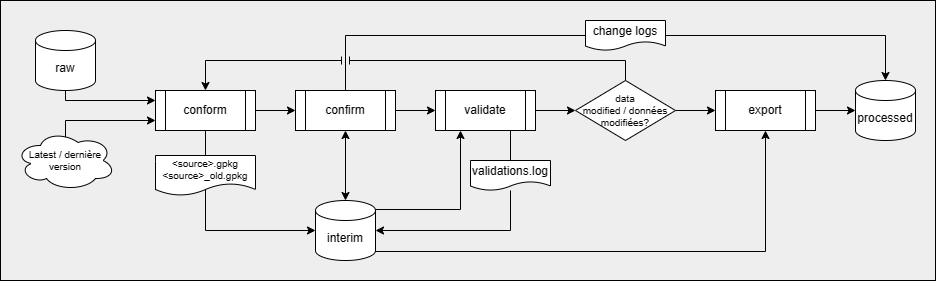
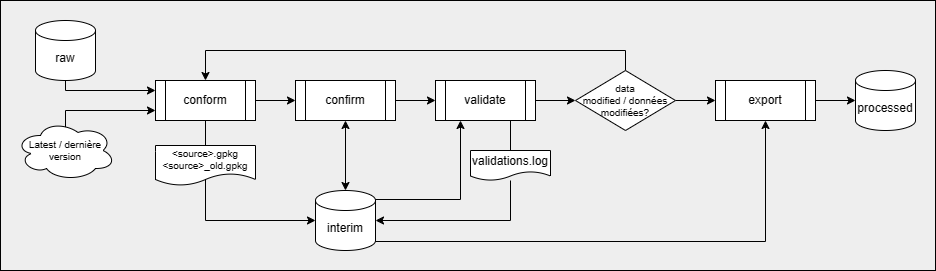
[1] removed change logs and all doc references too

diff --git a/src/confirm/confirm.py b/src/confirm/confirm.py
@@ -25,47 +25,26 @@ handler.setLevel(logging.INFO)
 handler.setFormatter(logging.Formatter("%(asctime)s - %(levelname)s: %(message)s", "%Y-%m-%d %H:%M:%S"))
 logger.addHandler(handler)
 
-# Create logger for change logs.
-logger_change_logs = logging.getLogger("change_logs")
-logger_change_logs.setLevel(logging.INFO)
-
 
 class Confirm:
     """Defines an NRN process."""
 
-    def __init__(self, source: str, remove: bool = False) -> None:
+    def __init__(self, source: str) -> None:
         """
         Initializes an NRN process.
 
         :param str source: abbreviation for the source province / territory.
-        :param bool remove: removes pre-existing change logs within the data/processed directory for the specified
-            source, default False.
         """
 
         self.source = source.lower()
-        self.remove = remove
 
         # Configure data paths.
         self.src = filepath.parents[2] / f"data/interim/{self.source}.gpkg"
-        self.dst = filepath.parents[2] / f"data/processed/{self.source}/{self.source}_change_logs"
 
         # Validate source path.
         if not self.src.exists():
             logger.exception(f"Source not found: \"{self.src}\".")
             sys.exit(1)
-
-        # Validate and conditionally clear output namespace.
-        if self.dst.exists():
-            logger.warning("Output namespace already occupied.")
-
-            if self.remove:
-                logger.warning("Parameter remove=True: Removing directory.")
-                helpers.rm_tree(self.dst)
-
-            else:
-                logger.exception("Parameter remove=False: Unable to proceed while output namespace is occupied. Set "
-                                 "remove=True (-r) or manually clear the output namespace.")
-                sys.exit(1)
 
         # Define match fields (fields used for grouping records in current dataset / linking to old dataset)
         # Note: roadseg requires a match field, the remaining entries are optional.
@@ -85,11 +64,6 @@ class Confirm:
         self.dframes_old = helpers.load_gpkg(self.src.parent / f"{self.source}_old.gpkg", find=True,
                                              layers=["blkpassage", "ferryseg", "junction", "roadseg", "tollpoint"])
 
-        # Define change logs dictionary.
-        self.change_logs = {
-            table: {change: set() for change in ("added", "retired", "modified", "confirmed")} for table in self.dframes
-        }
-
         # NID change lookup for roadseg.
         self.roadseg_nid_changes = dict(zip(self.dframes["roadseg"]["nid"], self.dframes["roadseg"]["nid"]))
 
@@ -99,36 +73,7 @@ class Confirm:
         self.gen_nids()
         self.gen_structids()
         self.update_nid_linkages()
-        self.export_nid_change_logs()
         helpers.export(self.dframes, self.src)
-
-    def export_nid_change_logs(self) -> None:
-        """Exports nid change classifications as log files."""
-
-        logger.info(f"Writing nid change logs to: \"{self.dst}\".")
-
-        # Create change logs directory.
-        Path(self.dst).mkdir(parents=True, exist_ok=True)
-
-        # Iterate tables and nid classification types.
-        for table in self.change_logs:
-            for classification, log in self.change_logs[table].items():
-
-                # Configure log path.
-                log_path = self.dst / f"{self.source}_{table}_{classification}.log"
-
-                # Drop pre-existing File Handler.
-                for f_handler in logger_change_logs.handlers:
-                    logger_change_logs.removeHandler(f_handler)
-
-                # Add File Handler with new log path.
-                f_handler = logging.FileHandler(log_path)
-                f_handler.setLevel(logging.INFO)
-                f_handler.setFormatter(logger.handlers[0].formatter)
-                logger_change_logs.addHandler(f_handler)
-
-                # Write log.
-                logger_change_logs.info(log)
 
     def gen_nids(self) -> None:
         """
@@ -210,22 +155,10 @@ class Confirm:
 
             # Recover nids from wkb-nid lookup.
             df["nid"] = df_wkb.map(wkb_nid_lookup).fillna(default)
-            self.change_logs[table]["confirmed"] = set(df.loc[df["nid"] != default, "nid"])
-
-            # Identify modified records based on match field.
-            if match_field:
-                flag_modified = (df["nid"] != default) & (df[match_field] != df["nid"].map(nid_match_lookup))
-
-                self.change_logs[table]["modified"] = set(df.loc[flag_modified, "nid"])
-                self.change_logs[table]["confirmed"] = \
-                    self.change_logs[table]["confirmed"] - set(df.loc[flag_modified, "nid"])
 
             # Assign a new nid to all required records.
             flag_added = (df["nid"] == default)
             df.loc[flag_added, "nid"] = [uuid.uuid4().hex for _ in range(sum(flag_added))]
-
-            self.change_logs[table]["added"] = set(df.loc[flag_added, "nid"])
-            self.change_logs[table]["retired"] = set(df_old["nid"]) - set(df["nid"])
 
             # Link dissolved geometries to original geometries, if required.
             if table == "roadseg":
@@ -473,22 +406,18 @@ class Confirm:
 
 @click.command()
 @click.argument("source", type=click.Choice("ab bc mb nb nl ns nt nu on pe qc sk yt".split(), False))
-@click.option("--remove / --no-remove", "-r", default=False, show_default=True,
-              help="Remove pre-existing change logs within the data/processed directory for the specified source.")
-def main(source: str, remove: bool = False) -> None:
+def main(source: str) -> None:
     """
     Executes an NRN process.
 
     \b
     :param str source: abbreviation for the source province / territory.
-    :param bool remove: removes pre-existing change logs within the data/processed directory for the specified source,
-        default False.
     """
 
     try:
 
         with helpers.Timer():
-            process = Confirm(source, remove)
+            process = Confirm(source)
             process()
 
     except KeyboardInterrupt:

diff --git a/src/export/export.py b/src/export/export.py
@@ -35,7 +35,7 @@ class Export:
 
         :param str source: abbreviation for the source province / territory.
         :param bool remove: removes pre-existing files within the data/processed directory for the specified source,
-            excluding change logs, default False.
+            default False.
         """
 
         self.source = source.lower()
@@ -53,7 +53,7 @@ class Export:
             sys.exit(1)
 
         # Validate and conditionally clear output namespace.
-        namespace = list(filter(lambda f: f.stem != f"{self.source}_change_logs", self.dst.glob("*")))
+        namespace = list(self.dst.glob("*"))
 
         if len(namespace):
             logger.warning("Output namespace already occupied.")
@@ -397,12 +397,12 @@ class Export:
 
         # Configure zip progress bar.
         file_count = 0
-        for data_dir in filter(lambda f: f.name != f"{self.source}_change_logs.zip", root.glob("*")):
+        for data_dir in root.glob("*"):
             file_count += len(list(filter(Path.is_file, data_dir.rglob("*"))))
         zip_progress = trange(file_count, desc="Compressing data", bar_format=self.bar_format)
 
-        # Iterate output directories. Ignore change logs if already zipped.
-        for data_dir in filter(lambda f: f.name != f"{self.source}_change_logs.zip", root.glob("*")):
+        # Iterate output directories.
+        for data_dir in root.glob("*"):
 
             try:
 
@@ -434,8 +434,7 @@ class Export:
 @click.command()
 @click.argument("source", type=click.Choice("ab bc mb nb nl ns nt nu on pe qc sk yt".split(), False))
 @click.option("--remove / --no-remove", "-r", default=False, show_default=True,
-              help="Remove pre-existing files within the data/processed directory for the specified source, excluding "
-                   "change logs.")
+              help="Remove pre-existing files within the data/processed directory for the specified source.")
 def main(source: str, remove: bool = False) -> None:
     """
     Executes an NRN process.
@@ -443,7 +442,7 @@ def main(source: str, remove: bool = False) -> None:
     \b
     :param str source: abbreviation for the source province / territory.
     :param bool remove: removes pre-existing files within the data/processed directory for the specified source,
-        excluding change logs, default False.
+        default False.
     """
 
     try:

diff --git a/docs/source/fr/product_documentation/product_distribution_formats.rst b/docs/source/fr/product_documentation/product_distribution_formats.rst
@@ -70,7 +70,7 @@ suit la structure suivante : ::
    "<version>", "Version du jeu de données."
    "<ENTITÉ>", "Nom abrégé de l'entité tel que défini à :ref:`Datasets`."
    "[<MODIFICATION>]", "[] = Optionnel. Type de modification apportée aux entités et attributs du jeu de données par
-   rapport à l'édition précédente. Les valeurs possibles sont identifiées à :ref:`Change Management Files`."
+   rapport à l'édition précédente."
    ".shp", "Extension du nom de fichier principal de géométrie."
 
 Dans le format SHP, il y a également cinq autres types de fichiers associés au fichier de géométrie de l'entité :
@@ -187,28 +187,6 @@ L'extension du nom de fichier dépend directement du format de distribution.
    "Segment routier", "SEGMROUT", "Ligne"
 
 | :sup:`*` Fichier d'attributs (.dbf) dans le format SHP.
-
-.. _Change Management Files:
-
-Fichiers de gestion des modifications
-^^^^^^^^^^^^^^^^^^^^^^^^^^^^^^^^^^^^^
-
-La gestion des modifications consiste principalement à identifier l'ajout, la confirmation, l'élimination ou la
-modification des objets (géométrie et/ou attribut) entre deux éditions successives d'un jeu de données. Un fichier de
-données est généré pour chaque type d'effet. L'extension du nom de fichier dépend directement du format de distribution.
-
-.. csv-table::
-   :header: "Gestion des modifications Nom de l'effet", "Nom du fichier SHP"
-   :widths: auto
-   :align: left
-
-   "Ajout", "<Nom du fichier SHP>_AJOUT"
-   "Confirmation", "<Nom du fichier SHP>_CONFIRME"
-   "Modification", "<Nom du fichier SHP>_MODIFIE"
-   "Élimination", "<Nom du fichier SHP>_ELIMINE"
-
-La méthode utilisée pour le *suivi des modifications géométriques* est indiquée dans un fichier texte nommé :
-``LISEZMOI_<IDENTIFIANT>.txt`` qui est joint au jeu de données.
 
 Identification des attributs
 ============================

diff --git a/docs/source/en/product_documentation/product_distribution_formats.rst b/docs/source/en/product_documentation/product_distribution_formats.rst
@@ -70,7 +70,7 @@ name of the SHP files is structured accordingly::
    "<version>", "Dataset version number."
    "<ENTITY>", "Abbreviated entity name as defined in :ref:`Datasets`."
    "[<MODIFICATION>]", "[] = Optional. Type of modification applied to the dataset entities and attributes in
-   comparison to previous edition. Possible values are identified in :ref:`Change Management Files`."
+   comparison to previous edition."
    ".shp", "Extension of the main geometry file name."
 
 There are also five other files associated with the main geometry file of an entity in SHP format:
@@ -183,28 +183,6 @@ The extension of the file name corresponds to the distribution format.
    "Toll Point", "TOLLPOINT", "Point"
 
 | :sup:`*` Attributes file (.dbf) in SHP format.
-
-.. _Change Management Files:
-
-Change Management Files
-^^^^^^^^^^^^^^^^^^^^^^^
-
-Change management consists in identifying the effects of an addition, confirmation, retirement and modification of the
-objects (geometry and/or attribute) between two consecutive dataset editions. A data file is produced for each effect
-type. The extension of the file name corresponds to the distribution format.
-
-.. csv-table::
-   :header: "Change management Effect name", "SHP File name"
-   :widths: auto
-   :align: left
-
-   "Added", "<SHP File Name>_ADDED"
-   "Confirmed", "<SHP File Name>_CONFIRMED"
-   "Modified", "<SHP File Name>_MODIFIED"
-   "Retired", "<SHP File Name>_RETIRED"
-
-A readme text file named: ``README_<IDENTIFIER>.txt`` that identifies the method used for the *follow-up of the
-geometrical modifications* is provided with the dataset.
 
 Attributes Identification
 =========================

diff --git a/docs/source/fr/user_guide/general_usage.rst b/docs/source/fr/user_guide/general_usage.rst
@@ -65,6 +65,6 @@ Une fois le pipeline RRN complet terminé, les tâches manuelles suivantes doive
    vi. Depuis ``nrn-rrn/data/processed/<source>.zip/fr/release_notes.rst`` à ``nrn-rrn/docs/source/fr/product_documentation/release_notes.rst``.
 
 2. Utilisez ``git`` pour ``commit`` et ``push`` les fichiers de documentation mis à jour vers le référentiel.
-3. Copiez les données traitées sur le serveur RRN concerné sous le sous-répertoire : ``5_Process``.
+3. Copiez les données traitées sur le serveur RRN concerné sous le sous-répertoire : ``5_Process``. Ignorez les documents de sortie susmentionnés.
 4. Décompressez les données WMS de sortie et copiez le GeoPackage (``NRN_<SOURCE>_WMS.gpkg``) sur le serveur RRN concerné sous le sous-répertoire : ``7_Disseminate/wms``.
 5. Informer les personnes concernées de la nouvelle version du RRN par e-mail.

diff --git a/docs/source/en/user_guide/general_usage.rst b/docs/source/en/user_guide/general_usage.rst
@@ -63,6 +63,6 @@ After completion of the full NRN pipeline, the following manual tasks must be pe
    vi. From ``nrn-rrn/data/processed/<source>.zip/fr/release_notes.rst`` to ``nrn-rrn/docs/source/fr/product_documentation/release_notes.rst``.
 
 2. Use ``git`` to ``commit`` and ``push`` the updated documentation files to the repository.
-3. Copy processed data to the relevant NRN server under subdirectory: ``5_Process``.
+3. Copy processed data to the relevant NRN server under subdirectory: ``5_Process``. Ignore aforementioned output documents.
 4. Unzip output WMS data and copy GeoPackage (``NRN_<SOURCE>_WMS.gpkg``) to relevant NRN server under subdirectory: ``7_Disseminate/wms``.
 5. Notify relevant individuals of new NRN release via email.
